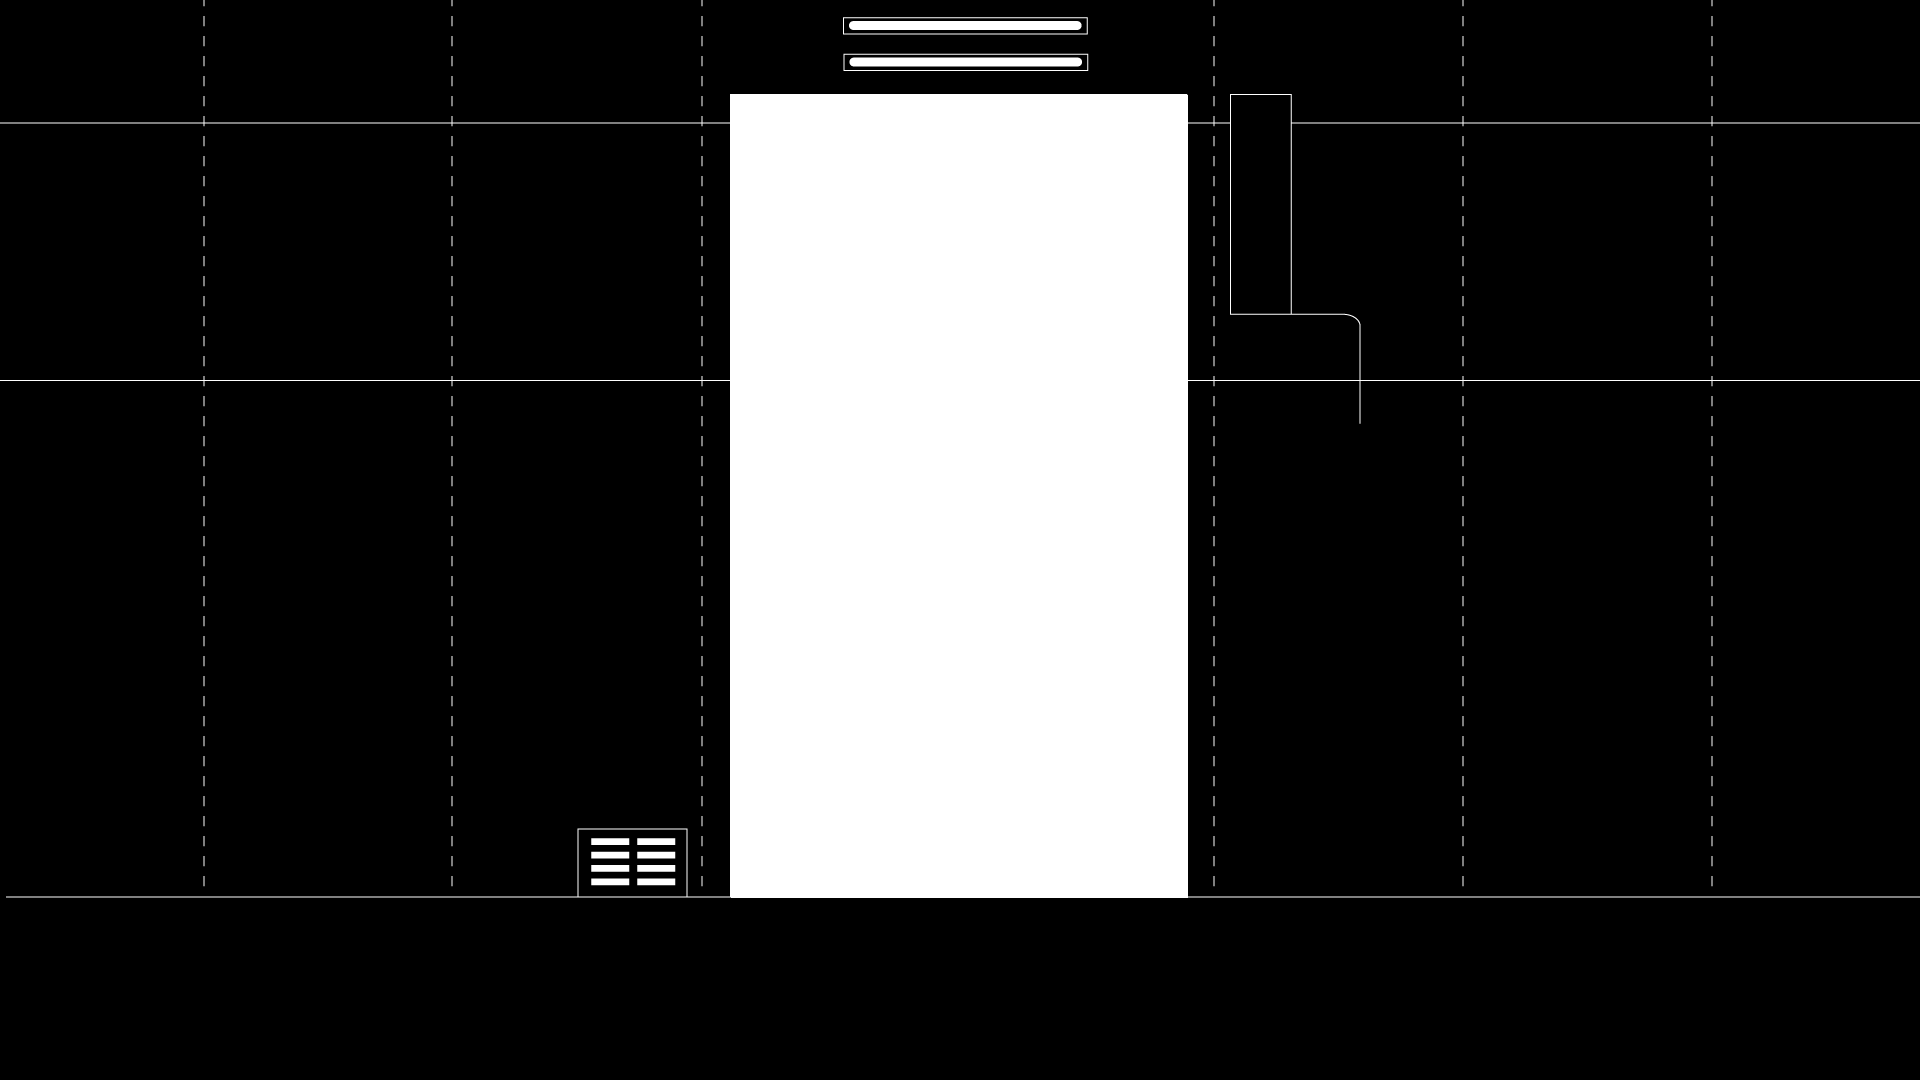
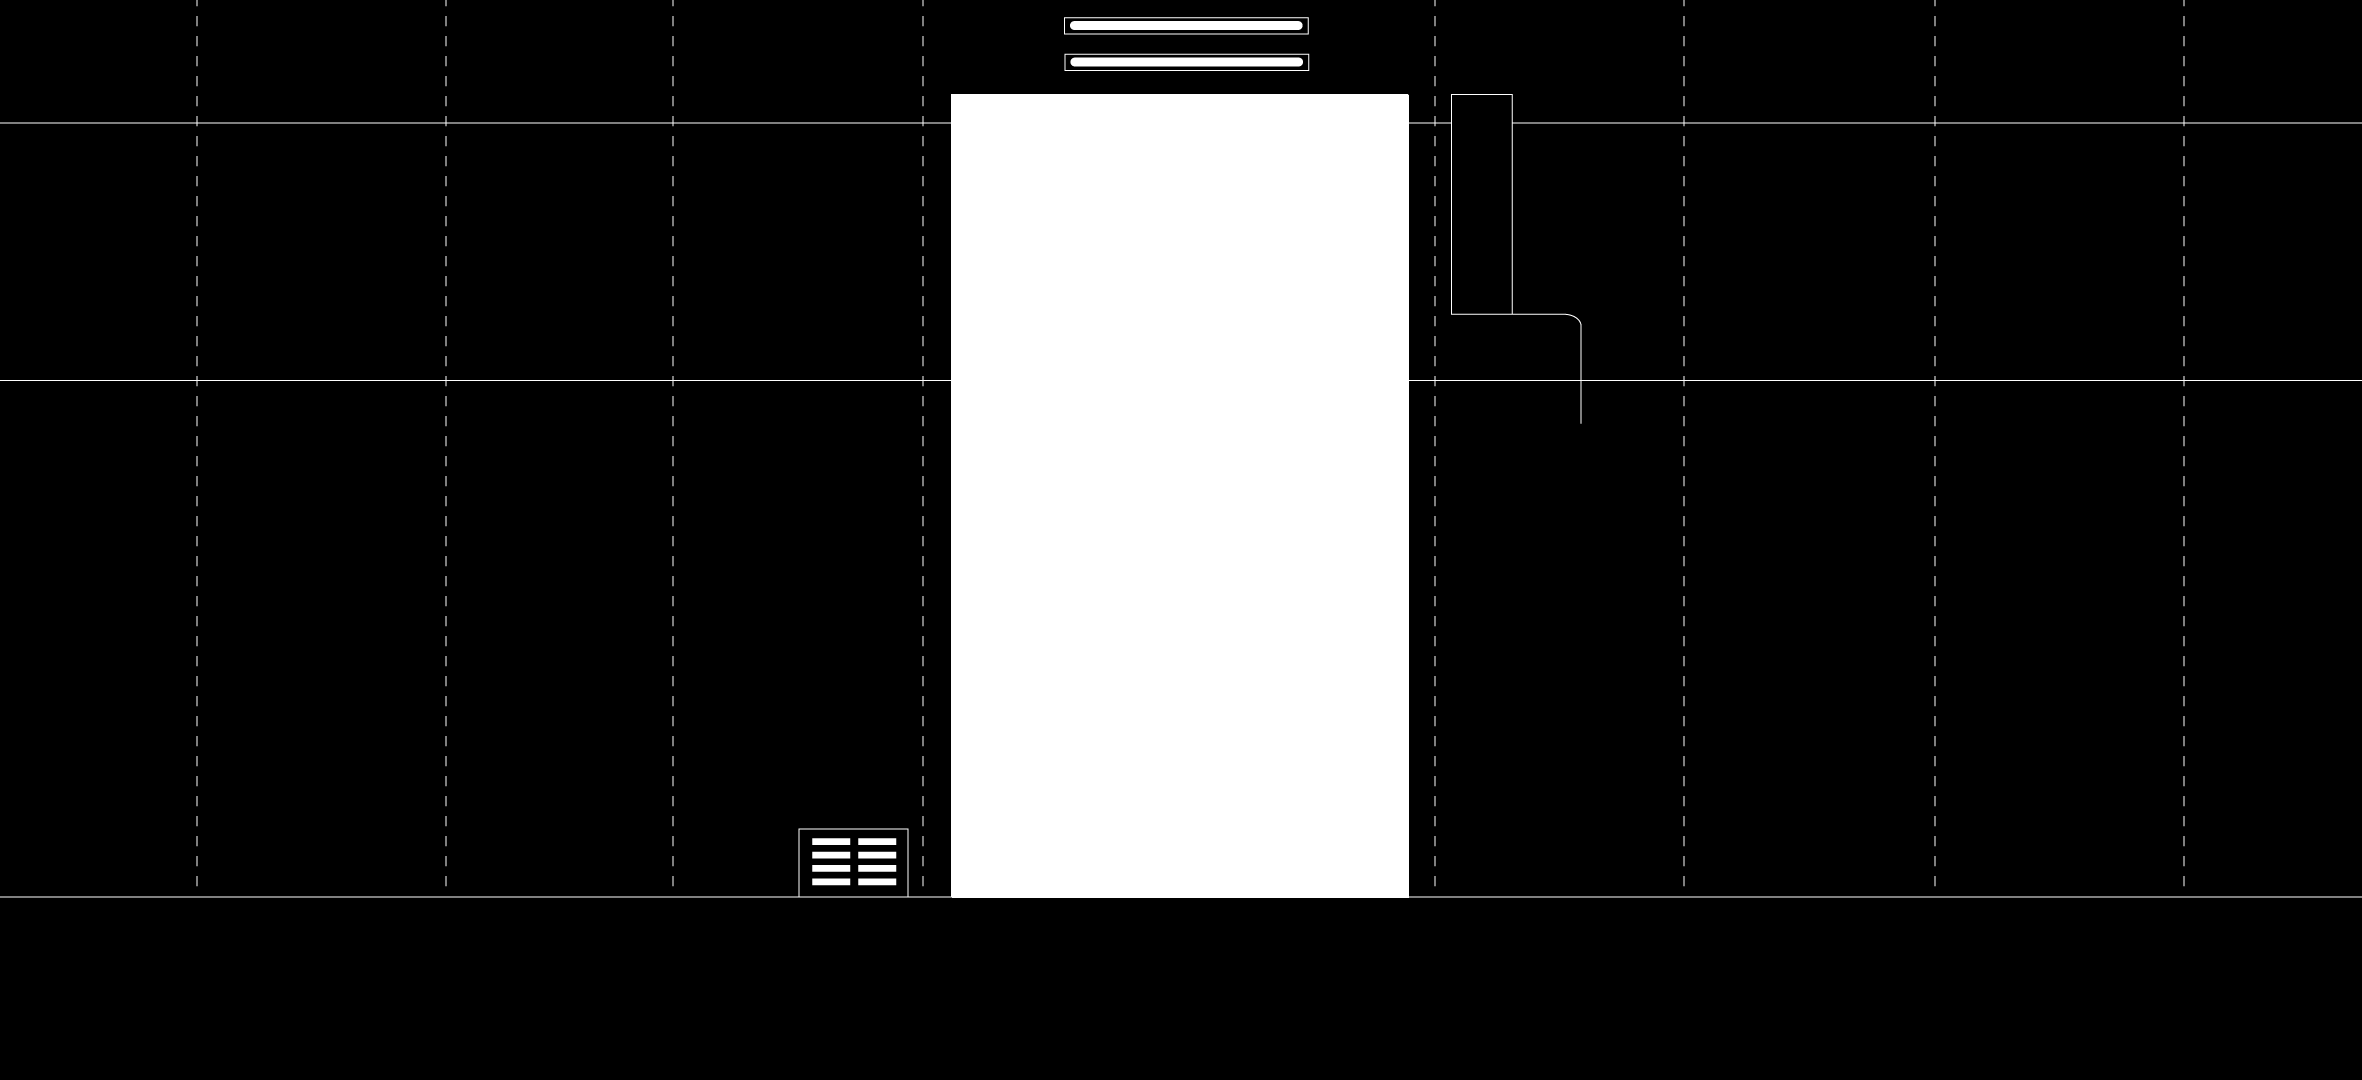
correct image width for split screen && change bidule position

diff --git a/client/src/desktop/components/scenes/SplitScreen/SceneDoor/SubScene/SceneDoorAdvantageInside.js b/client/src/desktop/components/scenes/SplitScreen/SceneDoor/SubScene/SceneDoorAdvantageInside.js
@@ -8,7 +8,7 @@ export default class SceneDoorAdvantageInside {
     constructor(pct) {
         this.initialPct = pct
         this.init()
-        // this.initGUI()
+        this.initGUI()
     }
 
     init() {
@@ -54,40 +54,40 @@ export default class SceneDoorAdvantageInside {
         bidules.parse(() => {
           let textures = Object.keys(bidules.textures).map((t) => bidules.textures[t])
           this.bidulesAnim = new PIXI.extras.AnimatedSprite(textures)
-          this.bidulesAnim.x = 7
+          this.bidulesAnim.x = 227
           this.bidulesAnim.y = -80
           this.bidulesAnim.animationSpeed = (24/60)
           this.bidulesAnim.play()
         })
     }
 
-    // initGUI() {
-    //     this.gui = new dat.GUI({ autoPlace: false })
-    //     var customContainer = document.querySelector('.desktop-app')
-    //     customContainer.appendChild(this.gui.domElement)
-    //     const fillBoxPos = {
-    //       x: this.bidulesAnim.x,
-    //       y: this.bidulesAnim.y,
-    //       width: this.bidulesAnim.width,
-    //       height: this.bidulesAnim.height
-    //     }
+    initGUI() {
+        this.gui = new dat.GUI({ autoPlace: false })
+        var customContainer = document.querySelector('.desktop-app')
+        customContainer.appendChild(this.gui.domElement)
+        const fillBoxPos = {
+          x: this.bidulesAnim.x,
+          y: this.bidulesAnim.y,
+          width: this.bidulesAnim.width,
+          height: this.bidulesAnim.height
+        }
     
-    //     let fillBoxChanger = () => {
-    //         this.bidulesAnim.x = fillBoxPos.x
-    //         this.bidulesAnim.y = fillBoxPos.y
-    //         this.bidulesAnim.width = fillBoxPos.width
-    //         this.bidulesAnim.height = fillBoxPos.height
-    //     }
+        let fillBoxChanger = () => {
+            this.bidulesAnim.x = fillBoxPos.x
+            this.bidulesAnim.y = fillBoxPos.y
+            this.bidulesAnim.width = fillBoxPos.width
+            this.bidulesAnim.height = fillBoxPos.height
+        }
     
-    //     let f1 = this.gui.addFolder('SPRITE POSITION')
-    //     f1.add(fillBoxPos, 'x', 0, 1920, 0.1).onChange(fillBoxChanger)
-    //     f1.add(fillBoxPos, 'y', -100, 900, 0.1).onChange(fillBoxChanger)
-    //     f1.add(fillBoxPos, 'width', 0, 200, 0.1).onChange(fillBoxChanger)
-    //     f1.add(fillBoxPos, 'height', 0, 2000, 0.1).onChange(fillBoxChanger)
+        let f1 = this.gui.addFolder('SPRITE POSITION')
+        f1.add(fillBoxPos, 'x', 0, 1920, 0.1).onChange(fillBoxChanger)
+        f1.add(fillBoxPos, 'y', -100, 900, 0.1).onChange(fillBoxChanger)
+        f1.add(fillBoxPos, 'width', 0, 200, 0.1).onChange(fillBoxChanger)
+        f1.add(fillBoxPos, 'height', 0, 2000, 0.1).onChange(fillBoxChanger)
     
     
-    //     this.gui.close()
-    //   }
+        this.gui.close()
+      }
 
 
     addToScene() {

diff --git a/client/src/desktop/components/scenes/SplitScreen/SceneDoor/SceneDoor.js b/client/src/desktop/components/scenes/SplitScreen/SceneDoor/SceneDoor.js
@@ -101,6 +101,7 @@ export default class SceneDoor {
       } else {
         let bgX = ((window.innerWidth * pct) - this.spriteAdvantage.width) / 2
         TweenMax.to(this.spriteAdvantage.position, 1,{x: bgX})
+        TweenMax.to(this.spriteAdvantageInside.position, 1,{x: bgX})
       }
     } else {
       let masxW = (window.innerWidth * pct) - this.marge
@@ -112,6 +113,7 @@ export default class SceneDoor {
       } else {
         let bgX = ((window.innerWidth * pct) - this.spriteAdvantage.width) / 2
         TweenMax.to(this.spriteAdvantage.position, 1,{x: bgX})
+        TweenMax.to(this.spriteAdvantageInside.position, 1,{x: bgX})
       }
     }
   }
@@ -131,6 +133,7 @@ export default class SceneDoor {
       } else {
         let bgX = ((window.innerWidth * pct) - this.spriteAdvantage.width) / 2
         TweenMax.to(this.spriteAdvantage.position, 1,{x: bgX})
+        TweenMax.to(this.spriteAdvantageInside.position, 1,{x: bgX})
       }
 
     } else {
@@ -143,6 +146,7 @@ export default class SceneDoor {
       } else {
         let bgX = ((window.innerWidth * pct) - this.spriteAdvantage.width) / 2
         TweenMax.to(this.spriteAdvantage.position, 1,{x: bgX})
+        TweenMax.to(this.spriteAdvantageInside.position, 1,{x: bgX})
       }
 
       // TweenMax.to(this.sprite, 2,{alpha: 1})

diff --git a/client/src/desktop/components/scenes/SceneKinematic2/SceneKinematic2.js b/client/src/desktop/components/scenes/SceneKinematic2/SceneKinematic2.js
@@ -60,8 +60,8 @@ export default class SceneKinematic2 {
                 // const currentStep = stepsMobile.STAIRS.name
                 // this.dispatch(setCurrentScene(scenes.SCENESTAIRS.name))
                 this.dispatch(setSplitScreen({isSplitScreen: true}))
-                this.dispatch(setUserCurrentScene({userId:'player1', currentScene:scenes.SCENEDOOR.name}))
-                this.dispatch(setUserCurrentScene({userId:'player2', currentScene:scenes.SCENEDOOR.name}))
+                this.dispatch(setUserCurrentScene({userId:'player1', currentScene:scenes.SCENESTAIRS.name}))
+                this.dispatch(setUserCurrentScene({userId:'player2', currentScene:scenes.SCENESTAIRS.name}))
                 this.dispatch(wsEmitCurrentStep({currentStep}))
             },500)    
         })

diff --git a/client/src/desktop/components/scenes/SplitScreen/SceneDoor/transition.js b/client/src/desktop/components/scenes/SplitScreen/SceneDoor/transition.js
@@ -9,7 +9,7 @@ export const onEnter = (instance) => (
         resolve();
       }
     })
-    timeline.fromTo(instance.sprite, 3, {
+    timeline.fromTo(instance.sprite, 1, {
       alpha: 0,
     },{
       alpha: 1,
